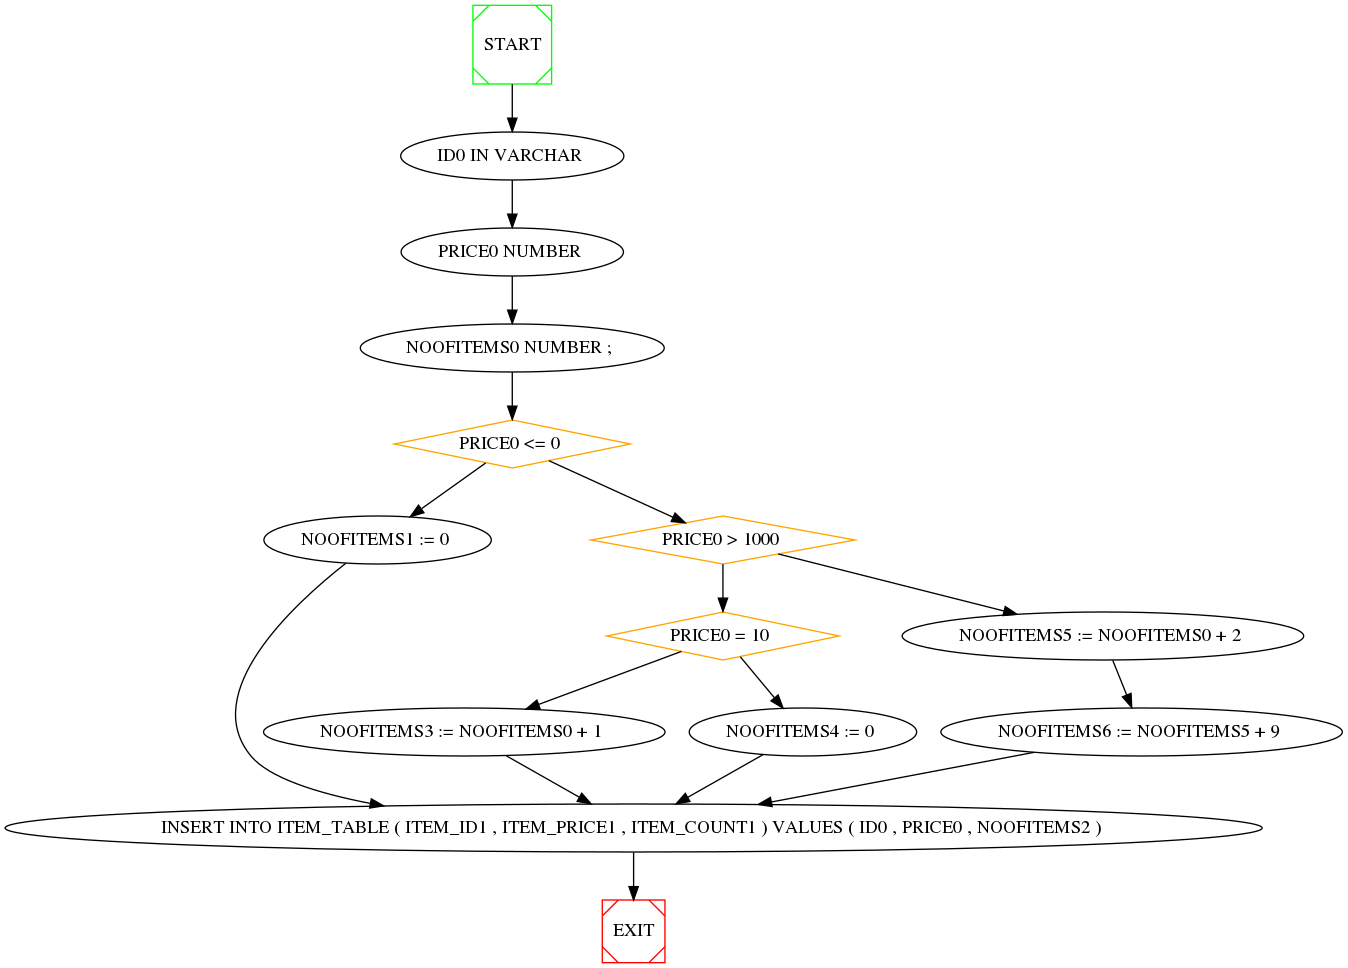
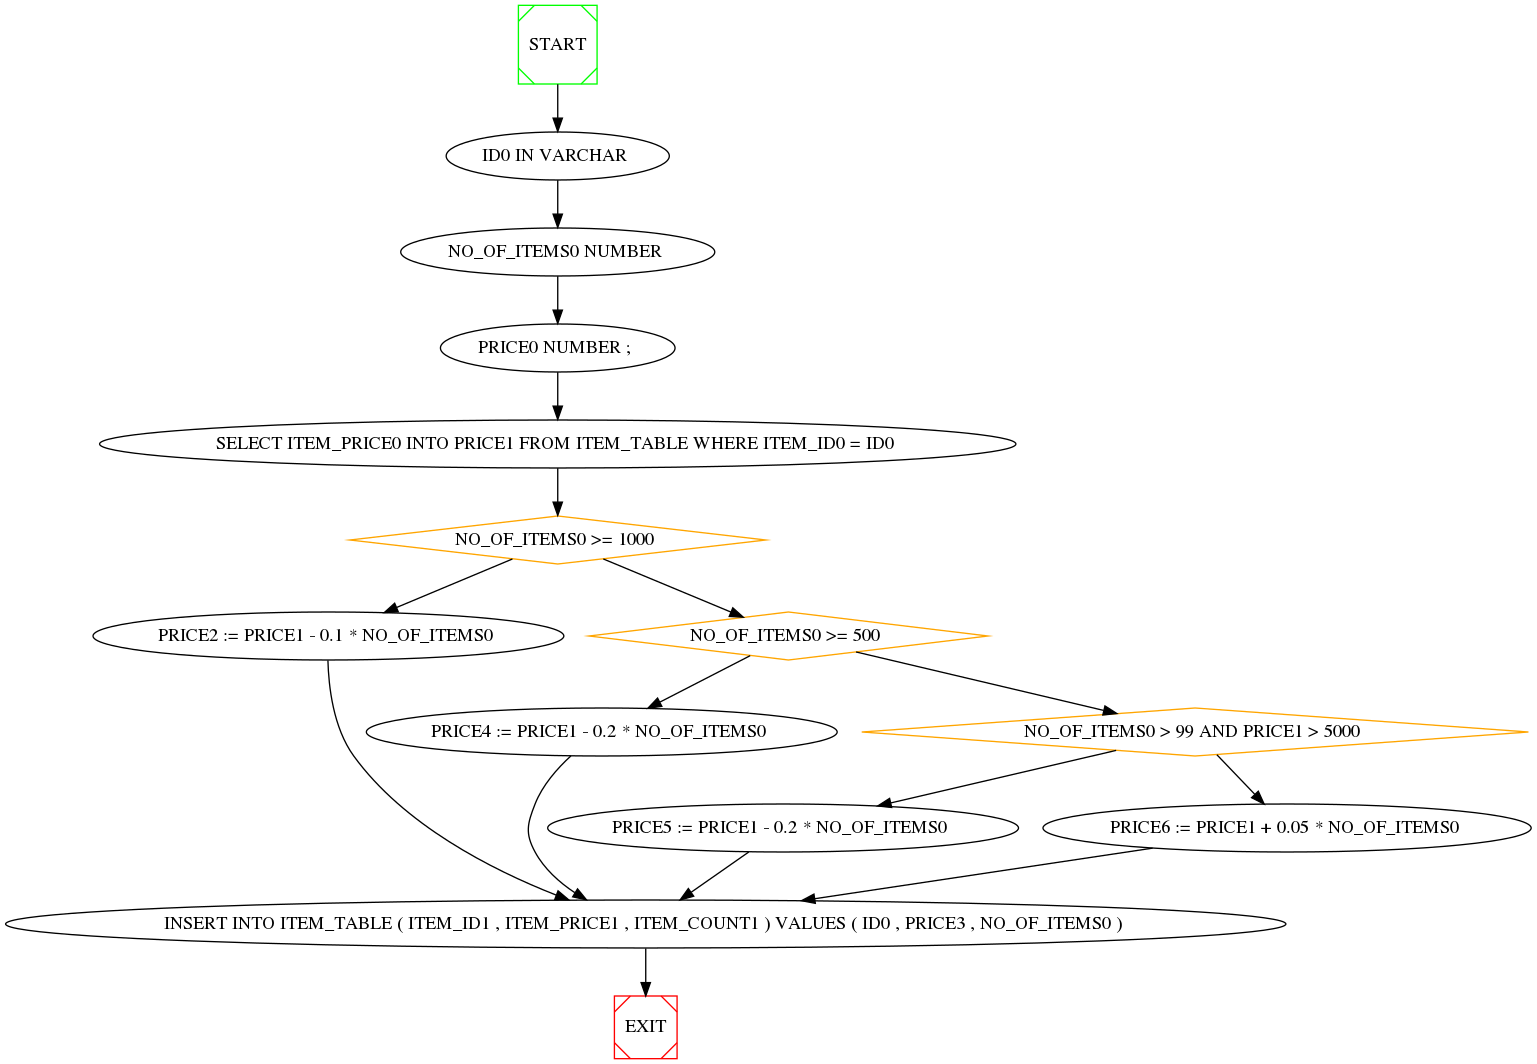
minor modification in OLD se module

Changed region(s): [[0.0, 0.0, 0.997, 1.0], [0.9347, 0.6818, 0.997, 0.7128], [0.8724, 0.8368, 0.9347, 0.8678]]

diff --git a/wpc/Z3RuntimeWpcFile.py b/wpc/Z3RuntimeWpcFile.py
@@ -1,4 +1,4 @@
-# This file was generated at runtime on 2019-04-21 22:05:23.521207
+# This file was generated at runtime on 2019-04-24 21:04:09.937886
 from z3 import *
 
 class Z3RuntimeWpcFile():
@@ -8,19 +8,17 @@ class Z3RuntimeWpcFile():
 		self.modelForViolation = ""
 
 	def execute(self):
-		R = Real('R')
-		B = Real('B')
-		Y = Real('Y')
-		Q = Real('Q')
-		D = Real('D')
-		X = Real('X')
-		A = Real('A')
-		C = Real('C')
-		P = Real('P')
+		PRICE = Real('PRICE')
+		NUM_ITEM = Real('NUM_ITEM')
+		ITEM_ID = Real('ITEM_ID')
+		ITEM_COUNT = Real('ITEM_COUNT')
+		NO_OF_ITEM = Real('NO_OF_ITEM')
+		ITEM_PRICE = Real('ITEM_PRICE')
+		ID = Real('ID')
 
 		s = Solver()
-		s.add(And( And( A + P >= 50, C + D == 100 ), Q + R < 54 ))
-		s.add( Not( Implies( And( And( A + P >= 50, C + D == 100 ), Q + R < 54 ), Or( And( And( A == ( X - 50 ) + 3, B == ( X - 50 ) - 3 ), Or( And( ( ( X - 50 ) + 5 ) > 10, And( And( ( ( X - 50 ) - 9 ) + P >= 50, C + D == 100 ), Q + R < 54 ) ), And( Not( ( ( X - 50 ) + 5 ) > 10 ), And( And( ( ( X - 50 ) + 5 ) + P >= 50, C + D == 100 ), Q + R < 54 ) ) ) ), And( Not( And( A == ( X - 50 ) + 3, B == ( X - 50 ) - 3 ) ), Or( And( ( ( X - 50 ) + 5 ) > 10, And( And( ( ( X - 50 ) - 9 ) + P >= 50, C + D == 100 ), Q + R < 54 ) ), And( Not( ( ( X - 50 ) + 5 ) > 10 ), And( And( ( ( X - 50 ) + 5 ) + P >= 50, C + D == 100 ), Q + R < 54 ) ) ) ) ) ) ) )
+		s.add(And( NO_OF_ITEM > 0, ITEM_PRICE > 0 ))
+		s.add( Not( Implies( And( NO_OF_ITEM > 0, ITEM_PRICE > 0 ), Or( And( ITEM_ID == ID, Or( And( NUM_ITEM >= 1000, ( ITEM_PRICE - 0.1 * NUM_ITEM ) > 0 ), And( Not( NUM_ITEM >= 1000 ), Or( And( NUM_ITEM >= 500, ( ITEM_PRICE - 0.2 * NUM_ITEM ) > 0 ), And( Not( NUM_ITEM >= 500 ), Or( And( And( NUM_ITEM > 99, ITEM_PRICE > 5000 ), ( ITEM_PRICE - 0.2 * NUM_ITEM ) > 0 ), And( Not( And( NUM_ITEM > 99, ITEM_PRICE > 5000 ) ), ( ITEM_PRICE + 0.05 * NUM_ITEM ) > 0 ) ) ) ) ) ) ), And( Not( ITEM_ID == ID ), Or( And( NUM_ITEM >= 1000, ( PRICE - 0.1 * NUM_ITEM ) > 0 ), And( Not( NUM_ITEM >= 1000 ), Or( And( NUM_ITEM >= 500, ( PRICE - 0.2 * NUM_ITEM ) > 0 ), And( Not( NUM_ITEM >= 500 ), Or( And( And( NUM_ITEM > 99, PRICE > 5000 ), ( PRICE - 0.2 * NUM_ITEM ) > 0 ), And( Not( And( NUM_ITEM > 99, PRICE > 5000 ) ), ( PRICE + 0.05 * NUM_ITEM ) > 0 ) ) ) ) ) ) ) ) ) ) )
 
 		#print("\n%%%%%%%%%% Aggregate Formula %%%%%%%%%%\n", s)
 		self.finalFormula = str(s)

diff --git a/my_simulator.py b/my_simulator.py
@@ -6,6 +6,7 @@ from MyCFG import MyCFG
 from MyHelper import MyHelper
 from MyUtility import MyUtility
 from MyVisitor import MyVisitor
+from PreProcessor import PreProcessor
 from gen.MySsaStringGenerator import MySsaStringGenerator
 from gen.PlSqlLexer import PlSqlLexer
 from gen.PlSqlParser import PlSqlParser
@@ -14,10 +15,16 @@ from MyRawCfgToGraph import MyRawCfgToGraph
 
 
 def main(argv):
-    name = "se/data/"+argv[1]
-    file = open(name, "r")
+    datafile = "se/data/"+argv[1]
+    specfile = "se/spec/"+argv[2]
+
+    file = open(datafile, "r")
     content = file.read().upper()
     file.close()
+
+    processor = PreProcessor(specfile, datafile)
+    tableInfo, assumeConstraintList, assertConstraintList, resultString = processor.start()
+
     file = open('se/upper_input.sql', "w")
     file.write(content)
     file.close()
@@ -33,13 +40,12 @@ def main(argv):
 
     cfg = MyCFG()
     helper = MyHelper(parser)
+    helper.updateTableDict(tableInfo)
     utility = MyUtility(helper)
     v = MyVisitor(parser, cfg, utility)
     v.visit(tree)
 
-
-
-    print(v.rawCFG)
+    print("\n\t", v.rawCFG, "\n")
 
     for key in v.cfg.nodes:
         if v.cfg.nodes[key].ctx != None:
@@ -51,11 +57,11 @@ def main(argv):
     cfg.printPretty()
     cfg.dotToPng(cfg.dotGraph, "se/raw_graph")
     utility.generateDomSet(cfg)
-    print("Dominator set ended----------->\n\n")
+    # print("Dominator set ended----------->\n\n")
     utility.generateSDomSet(cfg)
-    print("Strictly Dominator set ended ----------->\n\n")
+    # print("Strictly Dominator set ended ----------->\n\n")
     utility.generatIDom(cfg)
-    print("Immediate Dominator ended ----------->\n\n")
+    # print("Immediate Dominator ended ----------->\n\n")
     utility.generateDFSet(cfg)
     utility.insertPhiNode(cfg)
 
@@ -68,13 +74,10 @@ def main(argv):
     ssaString = MySsaStringGenerator(cfg, parser)
     ssaString.execute()
 
-    # utility.generateFinalDotGraph(cfg)
+
     for nodeId in cfg.nodes:
         cfg.nodes[nodeId].printPretty()
-    #
-    # hello = utility.generateFinalDotGraph(cfg)
-    # print(hello)
-    # cfg.dotToPng(hello, "versioned_graph")
+
 
     hello2 = utility.generateVersionedDotFile(cfg)
     #print(hello2)

diff --git a/gen/MySsaStringGenerator.py b/gen/MySsaStringGenerator.py
@@ -20,8 +20,7 @@ class MySsaStringGenerator(PlSqlVisitor):
         ctx = self.cfg.nodes[nodeId].ctx
         res = ""
         if ctx==None:
-            print()
-            #todo: destructed phi nodes
+            pass
         else:
             ruleName = self.helper.getRuleName(ctx)
             if ruleName == "parameter":
@@ -105,12 +104,18 @@ class MySsaStringGenerator(PlSqlVisitor):
     def getUpdate_statement(self, nodeId, ctx):
         res = "" + str(ctx.children[0]) + " " + self.getTerminal(ctx.children[1])
         res = res + self.getVersionedTerminalLHS(nodeId, ctx.children[2])
-        res = res + self.getVersionedTerminalRHS(nodeId, ctx.children[3])   # considering WHERE is mandatory for UPDATE statement
+        res = res + self.getVersionedTerminalRHS(nodeId, ctx.children[3])   # considering WHERE is mandatory for UPDATE statement (bug)
         return res
 
     def getSelect_statement(self, nodeId, ctx):
-        #res = "" + ctx.children[0] + " "
-        return self.getVersionedTerminalRHS(nodeId, ctx)
+        res = ""
+        for i in range(ctx.children[0].children[0].getChildCount()):
+            ruleName = self.helper.getRuleName(ctx.children[0].children[0].children[i])
+            if ruleName == "into_clause":
+                res = res + self.getVersionedTerminalLHS(nodeId, ctx.children[0].children[0].children[i])
+            else:
+                res = res + self.getVersionedTerminalRHS(nodeId, ctx.children[0].children[0].children[i])
+        return res
 
     def getAssignment_statement(self, nodeId, ctx):
         res = ""
